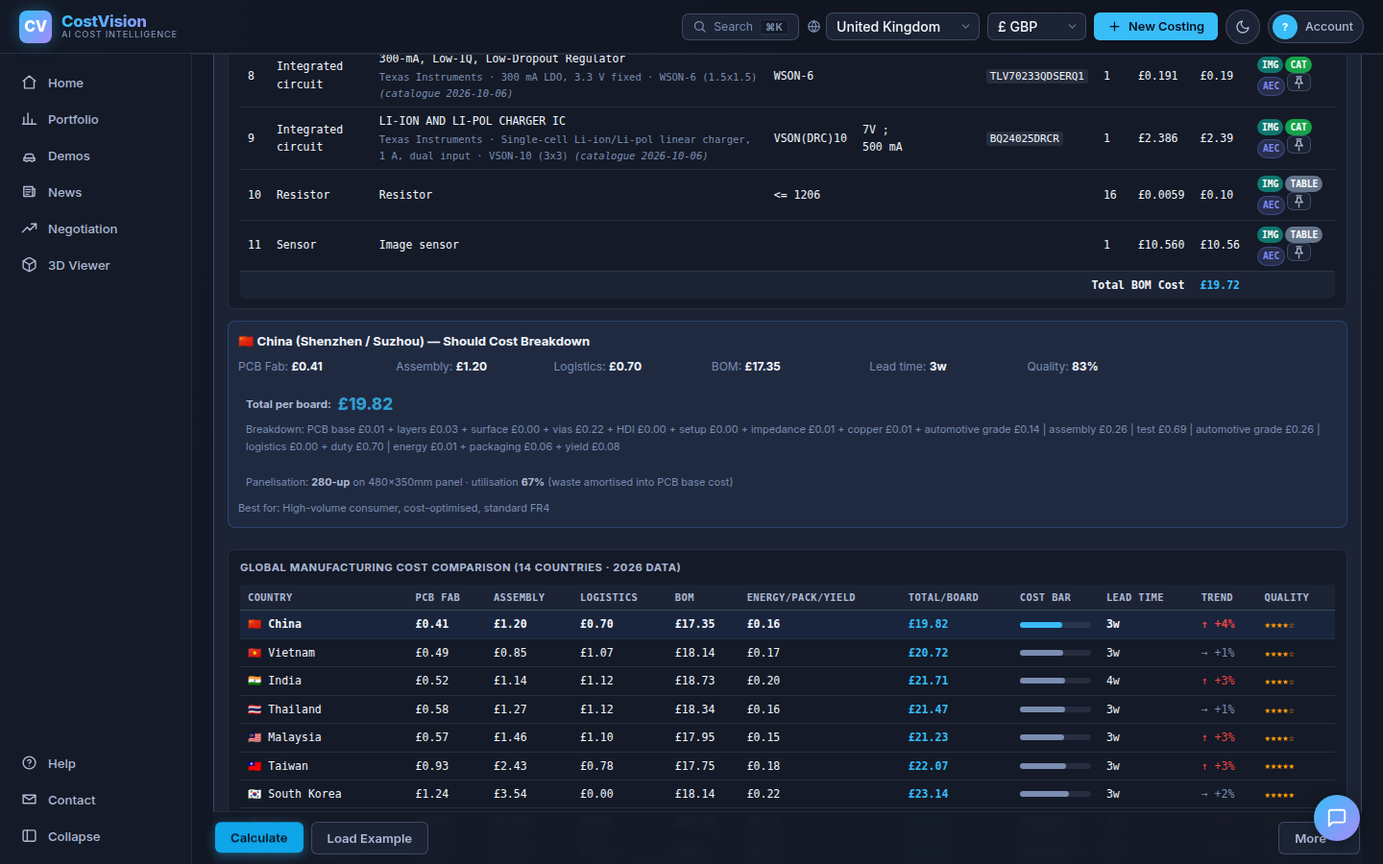
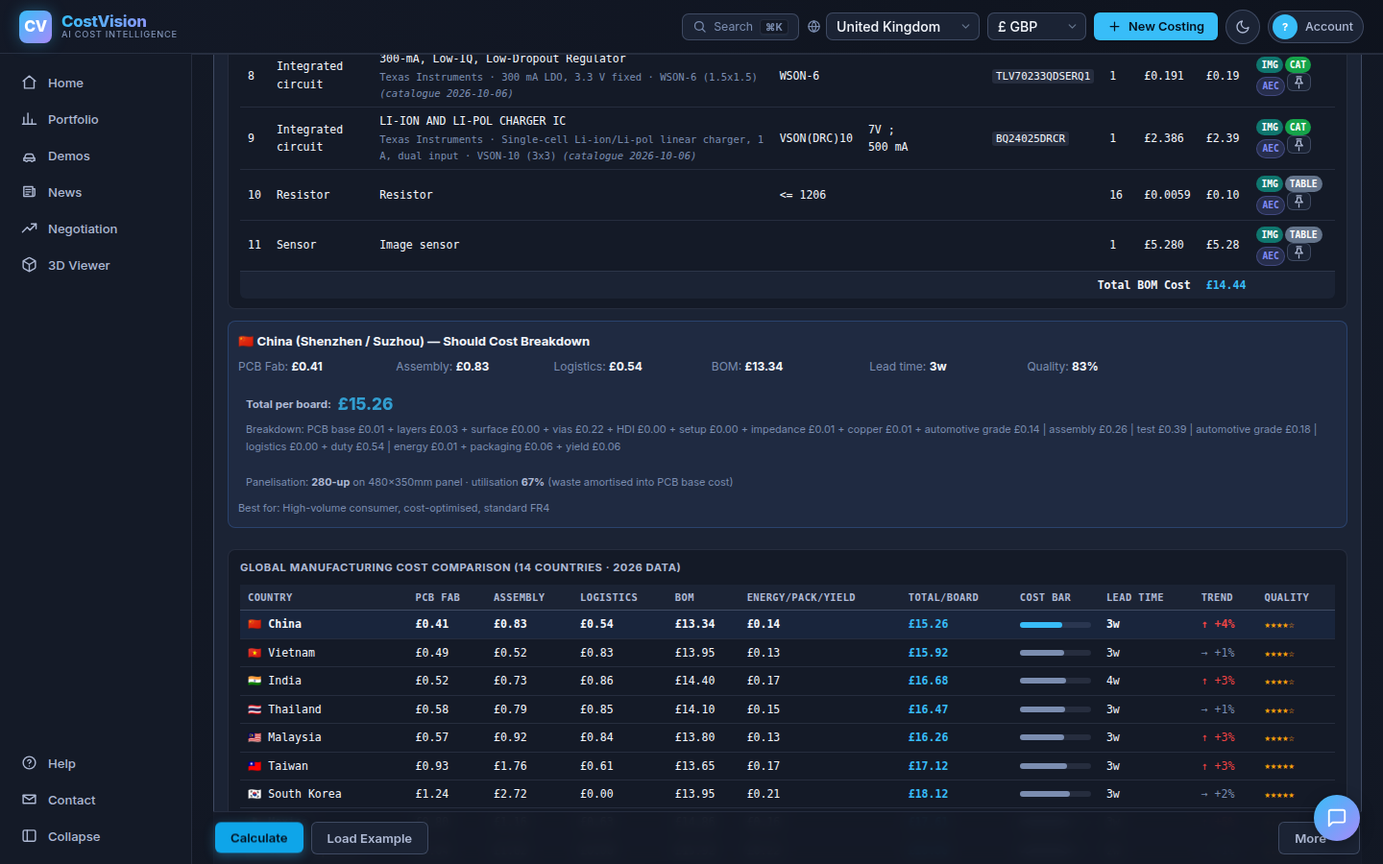
PCB costing: imager at volume, EMS material burden, AOI at volume - camera board re-cost against its 17.00 GBP price
Supplier price 17.00 GBP delivered UK, 250k/yr; image sensor unknown (A2MAC1
watermark, no marking) - sized from the photo at ~9.5x7.5 mm package /
5.9x4.4 mm window, 2-3 MP class. Evidence (docs/pcb/research/camera-board-
evidence-2026-10.md): automotive CIS at volume US$3-8 for 1-2 MP, >$10 for
8 MP; TI list prices; Shenzhen placement quotes; EMS quotes carry a material
margin that falls with programme size.

- Imager class range 3-15 GBP automotive (was 6-30, set from distributor
  single-unit listings): sensor 10.56 -> 5.28.
- EMS material burden on components by volume (5% >=100k, 7% >=10k, 10%
  below), inside bomCostPerBoard, shown as breakdown.materialBurden.
- AOI at volume like ICT / X-ray (station time + programme, table ceiling).
- Fab rates, SMT per placement and UK duty unchanged (evidence too weak).

Camera board: tool 15.26 (-10% vs 17.00), manual should-cost 14.9 (EMS
level), 16.1-16.7 with a Tier-1 margin. Radar 52.90 at 250k. Scorecard
25/25; camera and radar browser runs pass.

Claude-Session: https://claude.ai/code/session_0142L4rKS2AV8rxQTDWMs7dy

diff --git a/calculator/server/data/pcb-country-rates.ts b/calculator/server/data/pcb-country-rates.ts
@@ -1053,6 +1053,9 @@ export interface PCBCountryCostBreakdown {
     smtAssembly: number;
     thAssembly: number;
     aoi: number;
+    /** EMS material burden on the components (inside bomCostPerBoard), and its rate */
+    materialBurden?: number;
+    materialBurdenPct?: number;
     logistics: number;
     importDuty: number;
     /** Fab + assembly electricity at the country's actual tariff (audit fix) */
@@ -1127,6 +1130,16 @@ export const ICT_FIXTURE_GBP = 5000;
 export const XRAY_SECONDS_PER_BOARD = 20;
 /** X-ray programme per board design, GBP — an engineering figure, spread over the order. */
 export const XRAY_SETUP_GBP = 300;
+/** In-line AOI time per board (both sides), seconds, and the AOI programme per design — engineering figures. */
+export const AOI_SECONDS_PER_BOARD = 20;
+export const AOI_PROGRAM_GBP = 200;
+/**
+ * EMS material burden (procurement, inventory carrying, attrition and margin on the components it buys),
+ * as a fraction of the component cost, by annual volume — an engineering figure, lower on larger programmes.
+ */
+export function materialBurdenFor(qty: number): number {
+  return qty >= 100_000 ? 0.05 : qty >= 10_000 ? 0.07 : 0.10;
+}
 
 export function computePCBCountryCost(input: PCBCostInput, countryId: string): PCBCountryCostBreakdown {
   const rate = PCB_COUNTRY_RATES[countryId];
@@ -1175,7 +1188,9 @@ export function computePCBCountryCost(input: PCBCostInput, countryId: string): P
     (input.smtPlacements > 0 ? a.batchSetupGBP / Math.max(input.orderQuantity, 1) : 0);
   const thAssembly = input.throughHoleJoints * a.thRatePerJoint;
   const manualAssembly = input.manualJoints * a.manualSolderPerJoint;
-  const aoiCost = input.aoiRequired ? a.aoiPerBoard : 0;
+  // AOI on the same basis as ICT / X-ray (Oct 2026): in-line inspection time at volume, the table's
+  // small-batch price as the ceiling (a 250k camera board paid the flat £0.37).
+  const aoiCost = input.aoiRequired ? Math.min(a.aoiPerBoard, (AOI_SECONDS_PER_BOARD / 3600) * 2 * a.labourRatePerHr + AOI_PROGRAM_GBP / Math.max(input.orderQuantity, 1)) : 0;
   // X-ray of BGA / CSP joints, same basis as ICT: station time (XRAY_SECONDS_PER_BOARD at 2 × the labour
   // rate) at volume, the table's small-batch cabinet price as the ceiling (Oct 2026: a 250k camera board
   // with one CSP imager was charged £1.27 a board).
@@ -1192,7 +1207,14 @@ export function computePCBCountryCost(input: PCBCostInput, countryId: string): P
 
   // Component sourcing (audit fix): BOM varies by country via the sourcing
   // index — local availability/spot-market access, NOT an FX conversion.
-  const bomSourced = input.totalBOMCostGBP * (rate.components?.priceMultiplier ?? 1);
+  // The EMS buys the components and charges for doing so: procurement, inventory carrying, scrap and a
+  // margin on material (cost-plus EMS practice — Venture Outsource, EMSNow; the rate falls on larger
+  // programmes). It was missing: components passed through at cost, so every board sat below a real
+  // quote. MATERIAL_BURDEN is an engineering figure by volume, stated in the breakdown.
+  const materialBurdenPct = materialBurdenFor(input.orderQuantity);
+  const bomAtCost = input.totalBOMCostGBP * (rate.components?.priceMultiplier ?? 1);
+  const materialBurden = bomAtCost * materialBurdenPct;
+  const bomSourced = bomAtCost + materialBurden;
 
   // Logistics. Sea freight applies at volume (>= 2500 boards/order) where a
   // sea rate exists (audit fix: seaFreightPerKgGBP was defined but never used,
@@ -1261,6 +1283,8 @@ export function computePCBCountryCost(input: PCBCostInput, countryId: string): P
       aoi: Math.round((aoiCost + xrayCost + ictCost + confCost) * 100) / 100,
       logistics: Math.round(freight * 100) / 100,
       importDuty: Math.round(importDuty * 100) / 100,
+      materialBurden: Math.round(materialBurden * 100) / 100,
+      materialBurdenPct,
       energy: Math.round(energyCost * 100) / 100,
       packaging: Math.round(packagingCost * 100) / 100,
       yieldLoss: Math.round(yieldLossCost * 100) / 100,

diff --git a/calculator/tests/pcb-headline-trace.test.ts b/calculator/tests/pcb-headline-trace.test.ts
@@ -5,7 +5,7 @@
  */
 import { describe, it, expect } from 'vitest';
 import { readFileSync } from 'node:fs';
-import { computePCBCountryCost, PCB_COUNTRY_RATES, ICT_FIXTURE_GBP, XRAY_SECONDS_PER_BOARD, XRAY_SETUP_GBP, type PCBCostInput } from '../server/data/pcb-country-rates.js';
+import { computePCBCountryCost, PCB_COUNTRY_RATES, ICT_FIXTURE_GBP, XRAY_SECONDS_PER_BOARD, XRAY_SETUP_GBP, AOI_SECONDS_PER_BOARD, AOI_PROGRAM_GBP, materialBurdenFor, type PCBCostInput } from '../server/data/pcb-country-rates.js';
 const ICT_SEC = 90;   // the radar input's ictTimeSec
 import { applyAutomotiveGrade, derivePlacementsFromBOM, setDeterministicCostEstimates, gradeVolumeCurve, EXTRACT_MODEL, DEEP_EXTRACT_MODEL, OCR_MODEL } from '../server/routes/pcb.js';
 
@@ -41,11 +41,12 @@ describe('China breakdown by hand (rates as of 2026-09-29)', () => {
     // ICT at volume: test time × (2 × labour £/h) + the fixture over the order, capped at the table price.
     const ict = Math.min(r.assembly.ictPerBoard, ICT_SEC / 3600 * 2 * r.assembly.labourRatePerHr + ICT_FIXTURE_GBP / 250000);
     const xray = Math.min(r.assembly.xrayPerBoard, XRAY_SECONDS_PER_BOARD / 3600 * 2 * r.assembly.labourRatePerHr + XRAY_SETUP_GBP / 250000);
-    const test = r.assembly.aoiPerBoard + xray + ict;
+    const aoi = Math.min(r.assembly.aoiPerBoard, AOI_SECONDS_PER_BOARD / 3600 * 2 * r.assembly.labourRatePerHr + AOI_PROGRAM_GBP / 250000);
+    const test = aoi + xray + ict;
     expect(bd.assemblyPerBoard).toBeCloseTo(smt + th + test, 2);
   });
   it('components sourced in China at the country multiplier; duty on the customs value', () => {
-    expect(bd.bomCostPerBoard).toBeCloseTo(66.84 * r.components.priceMultiplier, 2);
+    expect(bd.bomCostPerBoard).toBeCloseTo(66.84 * r.components.priceMultiplier * (1 + materialBurdenFor(250000)), 2);   // + EMS material burden
     expect(bd.breakdown.importDuty).toBeCloseTo((bd.pcbFabPerBoard + bd.assemblyPerBoard + bd.bomCostPerBoard) * r.logistics.importDutyFraction, 2);
   });
   it('the total is the sum of its parts', () => {

diff --git a/calculator/tests/pcb-stage4-trace.test.ts b/calculator/tests/pcb-stage4-trace.test.ts
@@ -6,7 +6,7 @@
 import { describe, it, expect, beforeAll } from 'vitest';
 import { readFileSync } from 'node:fs';
 import { runStage4, applyAutomotiveGrade, bomAtQty } from '../server/routes/pcb.js';
-import { computePCBCountryCost, PCB_COUNTRY_RATES } from '../server/data/pcb-country-rates.js';
+import { computePCBCountryCost, PCB_COUNTRY_RATES, materialBurdenFor } from '../server/data/pcb-country-rates.js';
 
 const R = JSON.parse(readFileSync('e2e/fixtures/pcb-radar-replies.json', 'utf8'));
 const QTY = 250_000;
@@ -30,12 +30,12 @@ describe('radar board, China, 250k, ASIL-C — every figure from the headline', 
     for (const l of bom()) expect(allowed.has(String(l.priceSource)), `${l.refDes} ${l.priceSource}`).toBe(true);
   });
 
-  it('BOM total = Σ line totals; country BOM = BOM × the sourcing factor', () => {
+  it('BOM total = Σ line totals; country BOM = BOM × the sourcing factor × (1 + the EMS material burden)', () => {
     const sum = bom().reduce((t, l) => t + Number(l.lineTotalGBP), 0);
     const ce = a.costEstimates as Record<string, number>;
     expect(ce.totalBOMCostGBP).toBeCloseTo(sum, 2);
     expect(ce.confirmedBOMCostGBP + ce.unverifiedBOMCostGBP).toBeCloseTo(ce.totalBOMCostGBP, 2);
-    expect(s4.selectedCountryBreakdown!.bomCostPerBoard).toBeCloseTo(ce.totalBOMCostGBP * PCB_COUNTRY_RATES.cn.components.priceMultiplier, 2);
+    expect(s4.selectedCountryBreakdown!.bomCostPerBoard).toBeCloseTo(ce.totalBOMCostGBP * PCB_COUNTRY_RATES.cn.components.priceMultiplier * (1 + materialBurdenFor(250000)), 2);
   });
 
   it('the headline is the sum of its parts', () => {

diff --git a/calculator/server/utils/pcb-class-pricing.ts b/calculator/server/utils/pcb-class-pricing.ts
@@ -107,10 +107,11 @@ const TABLE: Record<string, Array<{ kind: string; test?: RegExp; row: Row }>> = 
   ],
   ic_bga: [
     { kind: 'adas', test: /adas|vision processor|radar processor/i, row: R(60, 400, 'ADAS processor') },
-    // Automotive CMOS imagers, catalogue and listings (6 Oct 2026): AR0233 £23.8, AR0820 £26.3 @1k;
-    // OX01F10 $12–18 (Digi-Key, no volume break). A camera's sensor is its largest line — it must
-    // never fall to a generic IC range.
-    { kind: 'imager', test: /image sensor|cmos sensor|camera sensor|imager\b/i, row: R(3, 20, 'CMOS image sensor', [6, 30]) },
+    // Automotive CMOS imagers AT VOLUME (camera-board trial, Oct 2026; docs/pcb/research/camera-board-evidence-2026-10.md):
+    // 1–2 MP automotive sensors US$3–8, 8 MP > US$10 (China industry press 2025); Yole: low-resolution automotive
+    // prices falling. Distributor single-unit listings (OX01F10 $12–18, AR0233 £24) are NOT volume prices.
+    // A camera's sensor is its largest line — it must never fall to a generic IC range.
+    { kind: 'imager', test: /image sensor|cmos sensor|camera sensor|imager\b/i, row: R(2.5, 12, 'CMOS image sensor', [3, 15]) },
     { kind: 'fpga_l', test: /fpga.*(large|ultrascale|kintex|virtex|stratix|arria)/i, row: R(30, 250, 'large FPGA') },
     { kind: 'fpga', test: /fpga|cpld/i, row: R(6, 40, 'small FPGA', [12, 60]) },
     { kind: 'ddr', test: /ddr|lpddr|sdram|dram|emmc|nand/i, row: R(1.5, 12, 'DDR / NAND memory BGA', [3, 20]) },

diff --git a/docs/pcb/research/camera-board-evidence-2026-10.md b/docs/pcb/research/camera-board-evidence-2026-10.md
@@ -1,0 +1,71 @@
+# Camera board cost evidence (October 2026)
+
+**The part:** an automotive 360° surround-view camera PCBA. It is 20 × 20 mm, 8-layer FR4, with 80 components on both sides. It is built in China at 250,000 a year and delivered to the UK. The supplier quotes £17.00 per board delivered.
+
+**How the evidence was gathered:** 28 WebSearch calls on 2026-10-06, with every source accessed that day. WebFetch was blocked, and so was a direct call to the gov.uk Trade Tariff API (the proxy returned 403). That means **every figure below is taken from the search engine's snippet or summary of the page, not from a full reading of it.** Treat each one as "the source appears to state". Check it on the page before it goes into a cost model. Where this file infers or calculates something, it says so.
+
+## A. Automotive CMOS image sensor prices at volume
+
+- **1–2 MP automotive CIS at volume: US$3–8 per sensor. 8 MP: above US$10.** These are Chinese sell-side and industry estimates, not company disclosures. Sources: Tencent News industry piece "产研：车载摄像头传感器——CIS芯片（一）" (2025-05-30), https://news.qq.com/rain/a/20250530A02BC200, and the cls.cn article "价量同步提升的车用CIS", https://www.cls.cn/detail/917687. The search summary gives the figure as "单颗100万-200万像素CIS芯片的量产价格在3-8美金左右，单颗800万像素CIS芯片的量产价格在10美金以上". It is the only resolution-split volume price found. I could not pin which of the two pages carries it, so check both.
+- **Yole: the ASP for all CIS (every market) "stabilized well over $3"**, held up by premium mobile and automotive parts. Source: Yole "Status of the CMOS Image Sensor Industry 2025", summarised by the Edge AI and Vision Alliance (2025-07), https://www.edge-ai-vision.com/2025/07/cmos-image-sensor-market-to-reach-more-than-30b-by-2030-driven-by-mobile-automotive-and-security-applications/ and https://www.yolegroup.com/product/report/status-of-the-cmos-image-sensor-industry-2025/. This covers all markets, not automotive alone.
+- **Yole on the automotive market:** camera-module revenue was about US$6B in 2024 and is forecast at US$8.7B by 2030 (6.6% CAGR). Image-sensor units are forecast above 400M by 2030 (8.1% CAGR). Yole also says the blended ASP is "eroding on commodity tiers while high-resolution ADAS silicon holds firmer". Source: https://www.yolegroup.com/press-release/automotive-imaging-market-surges-toward-8-7-billion-milestone/ and https://www.edge-ai-vision.com/2025/07/automotive-imaging-market-surges-toward-8-7b-milestone/. *Inference, not stated:* the report's 2024 automotive image-sensor revenue divided by its units would give an automotive ASP, but neither number appeared in the snippets.
+- **onsemi, 2023 investor material: "8MP ramping with ~2.5x ASP uplift"** compared with lower-resolution parts. This is a ratio, not a dollar figure. Source: onsemi investor presentation, https://investor.onsemi.com/static-files/129b7851-50a9-467f-bf29-1864b8c5c789 (2023). The Q2-2026 call gives Intelligent Sensing Group revenue of US$229M but no ASP: https://www.fool.com/earnings/call-transcripts/2026/08/11/on-semiconductor-on-q2-2026-earnings-call-transcript/
+- **TechInsights:** onsemi held more than 40% of the automotive image-sensor market in 2023. The snippet gave no ASP. Source: https://www.techinsights.com/blog/automotive-image-sensor-market-share-2023-onsemi-leads-over-40-share
+- **"8MP automotive ADAS cameras have an average selling price of USD 101 per unit."** This is for the whole **camera**, not the sensor. It comes from a press-release aggregator of unclear provenance, so it is low confidence. Source: openPR, https://www.openpr.com/news/4505992/the-usd-4-84-billion-automotive-imaging-revolution-why-8mp-adas
+- **Share of the module cost:** "the image sensor is typically ... 50% to 70% of the total cost" of a camera module. This is a camera-module vendor's blog, not a teardown. Source: Sincere Information Technology, https://www.cameramodule.com/info/what-is-the-cost-of-a-camera-module-a-deep-di-103434916.html
+- **Will Semi (OmniVision):** it overtook onsemi on automotive CIS shipments in 2023, mostly in mid- and low-end parts. It launched the 8 MP OX08D10 in September 2023. The search summary credits this to sell-side reports, for example the Soochow Securities (东吴证券) Will Semi deep-dive, https://file.iyanbao.com/pdf/da5a2-b1af9328-5b3c-47bd-bc6d-d7a7d0e66ca4.pdf. No ASP was disclosed in the snippet.
+- **Contract or volume quotes for OX01F10, OX03C10, AR0147AT, AR0233AT, IMX390 and ISX031:** none found. Octopart shows the OX03C10-EXAL-BA0C at US$500, but that is a prototyping **module**, not the sensor, so it is irrelevant: https://octopart.com/part/omnivision-technologies/OX03C10-EXAL-BA0C
+
+## B. Identifying the sensor from its package (about 9.5 × 7.5 mm, window about 5.9 × 4.4 mm)
+
+| Sensor | Package (as the source states) | Source | Match to 9.5 × 7.5? |
+|---|---|---|---|
+| OmniVision OX03C10 | a-CSP, **6.862 × 4.936 mm** | OX03C10 preliminary spec, a-CSP v1.1 (hosted on TI E2E China), https://e2echina.ti.com/cfs-file/__key/communityserver-discussions-components-files/135/OX03C10_2D00_Preliminary_2D00_Specification_2D00_a_2D00_CSP_5F00_Version_2D00_1_2D00_1_5F00_WT.pdf | No. Too small. |
+| OmniVision OX03F10 | 74-pin a-CSP, **6.9016 × 5.7496 mm** | OX03F10 preliminary spec, a-CSP v1.12 (TI E2E), https://e2e.ti.com/cfs-file/__key/communityserver-discussions-components-files/791/OX03F10_2D00_Preliminary_2D00_Specification_2D00_a_2D00_CSP_5F00_Version_2D00_1_2D00_12_5F00_Waching_2800_1_2900_.pdf | No |
+| OmniVision OX01E20 | 74-pin a-CSP. Size not in the snippet. | https://www.ovt.com/products/ox01e20/, product brief https://www.omnivision-group.com/files/pd/file/OX01E20-PB-v1.0-WEB.pdf | Unknown |
+| OmniVision OX01F10 | a-CSP, 1/3.55", 3.0 µm. Size not found. | https://www.ovt.com/products/ox01f10/ | Unknown. Probably a-CSP-sized (about 5–7 mm), which is *inference*. |
+| onsemi AR0147AT | iBGA: **9 × 9 mm 80-ball** and **8 × 7 mm 89-ball**, 1.5 mm high | AR0147AT datasheet (Mouser copy), https://www.mouser.com/datasheet/2/308/onsm_s_a0009667897_1-2280016.pdf | Close-ish, not a match |
+| onsemi AR0233AT | iBGA80, case 503BT. Datasheet outline says "TBD". | https://static6.arrow.com/aropdfconversion/a99e3d7a59a92b4c0836fbe673234ca42da60a34/ar0233at-d.pdf | Unknown |
+| onsemi AR0220AT | iBGA87, **12 × 9 mm** | AR0220 datasheet Rev 2, https://www.mouser.com/datasheet/2/308/AR0220-D-1381938.pdf | No |
+| Sony IMX490 | 124-pin plastic BGA, **15.35 × 11.68 mm** | Sony IMX490 flyer, https://www.sony-semicon.com/files/62/pdf/p-15_IMX490.pdf | No |
+| Sony IMX390 | The search summary gave "124-pin plastic BGA, 15.35 × 11.68 mm", but only the IMX490 flyer was in the results. **Unverified, possibly carried over from the IMX490.** | (no IMX390 primary found) | Probably no |
+| Sony ISX031 | Package size not found. Active area **5.81 × 4.66 mm** (7.45 mm diagonal), 3.0 µm, 1937 × 1553. | Commonlands, https://commonlands.com/pages/image-sensors/isx031?page=4 | Unknown |
+
+- **No sensor checked has a package that matches 9.5 × 7.5 mm.**
+- *Inference only:* active areas worked out from pixel count × pitch are AR0147AT about 4.0 × 2.9 mm, IMX390 about 5.8 × 3.2 mm, OX03C10 about 5.8 × 3.8 mm and AR0233AT about 6.1 × 3.8 mm. ISX031's stated active area is 5.81 × 4.66 mm. A 5.9 × 4.4 mm window is closest in aspect and size to the **ISX031**, with the OX03C10 next. A window measured on a photo sits a little larger than the pixel array, so this is a hint, not an identification. The 9.5 × 7.5 package size of the ISX031 is unconfirmed.
+
+## C. UK import duty (China to UK)
+
+- **Candidate code:** heading 8529, "Parts suitable for use solely or principally with the apparatus of headings 8524 to 8528", subheading 8529 90 (other) → **8529 90 92 00**. This 10-digit code exists. A Tariff Stop Press notice says several older codes were absorbed into it on 2023-06-30. Sources: https://www.trade-tariff.service.gov.uk/headings/8529 and https://trade-tariff.service.gov.uk/news/stories/changestocommoditycodesinchapters2385and90tariffstoppressnotice22
+- **Duty rate: NOT established.** The search summary of the 8529 heading page said "third country duty is 20%". That is almost certainly **VAT (20%)** misread as duty, so it must not be used. A direct call to the Trade Tariff API (`/api/commodities/8529909200`) was blocked by this environment's proxy. **Action:** read the rate at https://www.trade-tariff.service.gov.uk/commodities/8529909200?country=CN before costing.
+- Other candidates were not resolved: 8525 89 00 00 (a complete camera, page https://www.trade-tariff.service.gov.uk/commodities/8525890000), 8708 99 (motor-vehicle parts) and 8543 90. The HMRC classification guide is https://www.gov.uk/guidance/classifying-electrical-equipment-for-import-and-export. *Inference:* a populated board that is not yet a camera generally goes to 8529 90 as a part of 8525 apparatus, not to 8708. Section XVI Note 2 sends parts of chapter-85 apparatus to their own heading before chapter 87. Confirm this with a classification ruling.
+- **Anti-dumping:** not checked within the budget. No anti-dumping or countervailing measure was found or ruled out.
+
+## D. Texas Instruments prices
+
+The search summaries do not always say which quantity break a ti.com price belongs to. Where they don't, the table says so.
+
+| Part | Price | Source | Note |
+|---|---|---|---|
+| DS90UB935-Q1 | **US$3.707** (DS90UB935TRHBRQ1, large reel). **US$4.448** (DS90UB935TRHBTQ1, small reel). | ti.com product page, https://www.ti.com/product/DS90UB935-Q1 | Manufacturer price. Quantity break not stated in the snippet; ti.com normally shows 1ku. Arrow: US$4.219 at 1,000 (TRHBTQ1), which is a **distributor** price. |
+| LM53600-Q1 | **US$2.78** at 1k / reel of 3,000 (LM53600AQDSXRQ1) | Mouser, https://www.mouser.com/ProductDetail/Texas-Instruments/LM53600AQDSXRQ1?qs=8%2FmU9qzJpL80JMwTt3AZOw%3D%3D | **Distributor, not TI list.** ABR Micro shows US$1.977 (broker, low trust). The TI page https://www.ti.com/product/LM53600-Q1/part-details/LM53600LQDSXRQ1 was found, but no price was shown. |
+| TPS62422-Q1 | **US$1.061** (TPS62422QDRCRQ1) | ti.com, https://www.ti.com/product/TPS62422-Q1 | Manufacturer price. Quantity break not stated in the snippet. |
+| TLV702-Q1 | **US$0.266** (TLV70225QDSERQ1) | ti.com, https://www.ti.com/product/TLV702-Q1/part-details/TLV70225QDSERQ1 | Manufacturer price. Quantity break not stated. For comparison, the commercial TLV70225DSER is listed at **US$0.333 at 1ku**. |
+| BQ24025 | not found | — | — |
+
+## E. China volume benchmarks
+
+- **SMT placement price per point:** about **0.008–0.02 CNY per point** in general. Small batches run about 0.02–0.05, medium batches about 0.01–0.018, and high volume **as low as 0.008 CNY per point or lower**. Parts 0402 and larger cost **0.008–0.015 CNY per point**. 0201, BGA and QFN rise to about **0.03 CNY per point**. Extras are charged on top: line set-up / first article, stencil (100–300 CNY a set), paste and test. Sources are Shenzhen EMS vendor pages, so they are vendor statements. They include 宏力捷 / Greattong "SMT贴片加工多少钱一个点？2025最新报价与成本分析", http://www.greattong.com/archives/view-2666-1.html; 领智电路, http://www.lzdlpcb.com/cjwt/612.html; 捷创电子, https://www.jc-pcba.com/Infodetial/8021.html; 快发智造, https://www.kfpcba.com.cn/womendeboke/483.html; and 1943科技 (2025 price list), https://www.sz1942.com/show-80-2298-1.html. The summary did not say which page states which band. Note that a "point" (点) is usually counted per pad or pin pair (a 2-terminal chip = 1 point, an IC = pins ÷ 2). That convention is **not confirmed** from these snippets.
+- **EMS conversion cost benchmark:** none found beyond the per-point pricing above.
+- **8-layer FR4 PCB:** about **1,800 CNY per m²** with processing. The source page is one of the Chinese PCB pricing explainers in the results and was not pinned down. The candidates are Zhihu https://zhuanlan.zhihu.com/p/494954763 and https://zhuanlan.zhihu.com/p/21350868, and the eet-china cost formula page https://www.eet-china.com/tools/3.html. The date is unknown and probably older, so check it. The same results say volume (≥100 m²) earns 30–50% off small-batch prices, and immersion gold adds about 100 CNY per m².
+- **Reference point for lower layer counts:** JLC (嘉立创) price cut: 2-layer **298 CNY per m²**, 4-layer **480 CNY per m²**. These are prototype / small-batch platform prices. Source: https://www.jlc.com/portal/q7i36149.html (date not captured).
+
+## What could not be found
+
+- A volume price for a named sensor (OX01F10, OX03C10, AR0147AT, AR0233AT, IMX390, ISX031). No EMS or OEM contract quote is public.
+- Dollar ASPs for automotive CIS by resolution from Yole, TechInsights, Counterpoint, Omdia or S&P. Their snippets give market size and trends only. The only resolution split found (US$3–8 for 1–2 MP, more than US$10 for 8 MP) comes from Chinese industry and broker articles.
+- Teardown BOM estimates (A2Mac1, System Plus, TechInsights) for a surround-view camera module.
+- Package sizes for OX01F10, OX01E20, AR0233AT (datasheet says "TBD"), ISX031 and a verified IMX390. No candidate checked is 9.5 × 7.5 mm.
+- The UK Global Tariff duty rate for 8529 90 92 00, or any alternative code, and the anti-dumping status. The gov.uk API was blocked, and the only snippet figure (20%) looks like VAT.
+- TI list prices for BQ24025 and LM53600-Q1 (only a distributor price was found), and confirmation of the quantity break for the ti.com figures.
+- A dated, attributable 2025–26 price per m² for 8-layer volume PCB in China, and EMS conversion cost per board or per hour.

diff --git a/docs/pcb/camera-board-360-2026-10.md b/docs/pcb/camera-board-360-2026-10.md
@@ -121,3 +121,61 @@ The engineer reports buying this board at **£17.00**. It is recorded in `calcul
 - read the sensor's marking (or get its part number from the supplier);
 - confirm the Incoterm and the annual volume;
 - log further boards' actuals. With five or more PCBA actuals the calibration layer (`src/engine/calibration.ts`) can measure and correct the bias.
+
+## 7. Re-cost with evidence (delivered UK, 250k a year, sensor from its photo)
+
+The engineer confirmed:
+- the £17.00 is **delivered to the UK**;
+- the volume is **250,000 a year**;
+- the image sensor's part number is **not available**.
+
+The faint diagonal marks on the sensor, the QFN and the board read "A2MAC1": the watermark of the teardown service, not chip markings. The evidence is in `research/camera-board-evidence-2026-10.md`. It comes from search summaries, because this environment blocks the pages themselves and the UK tariff service.
+
+**The sensor, from its photo.**
+- **Size:** at 17 px/mm (the 20 mm board is 341 px wide), the package is about **9.5 × 7.5 mm** and the optical window about **5.9 × 4.4 mm**.
+- **Resolution class:** that window is about 1/2.7"–1/3" class, i.e. **2–3 MP**. Nearest stated active areas: Sony ISX031 5.81 × 4.66 mm (3 MP), then OmniVision OX03C10 (2.5 MP). The DS90UB935 serializer carries up to that class.
+- **Price:** automotive CIS at volume is **US$3–8 for 1–2 MP**, over $10 for 8 MP (China industry press, 2025). Yole reports low-resolution automotive prices falling. A 2–3 MP part sits in the upper half: **$7 central** (£5.29), range $5–9.
+
+### Manual should-cost (EMS level)
+
+| Element | Basis | £ |
+|---|---|---|
+| Image sensor (2–3 MP automotive, CSP) | $7 at volume (range $5–9) | 5.29 |
+| DS90UB935-Q1 | TI list $3.707 (large reel) × 0.85 contract | 2.38 |
+| LM53600-Q1 | Mouser $2.78 @1k → 250k (catalogue) | 1.50 |
+| TPS62422-Q1 | TI list $1.061 × 0.85 | 0.68 |
+| TLV702-Q1 | TI list $0.266 × 0.85 | 0.17 |
+| BQ24025 | Digi-Key $4.32 @3k → 250k (no TI list found; upper end) | 2.39 |
+| 49 MLCC, 7 beads, 10 µH inductor, PoC choke, 16 resistors | volume prices (§1) | 0.66 |
+| **Components** | | **13.07** |
+| EMS material burden | 5% at ≥ 100k (engineering figure; cost-plus EMS practice) | 0.65 |
+| Bare board | 8-layer 900–1,260 CNY/m² at volume (1,800 list less 30–50%) on 4 cm² at 70% panel use, plus 2 oz copper and automotive fab | 0.15 |
+| Assembly | 73 points × 0.012 CNY + 7 fine-pitch × 0.03 CNY (Shenzhen EMS quotes) = £0.12; AOI £0.05, X-ray £0.06, ICT £0.17, IATF premium £0.15 | 0.55 |
+| Yield / rework, packaging, freight, energy | | 0.24 |
+| UK import duty | 8529 90 92 is the likely code; its rate could not be confirmed here (0–3.7% → £0–0.54) | 0.27 |
+| **Manual should-cost, delivered UK** | | **≈ £14.9** (range £13.2–16.7) |
+
+Two readings of the actual:
+- **EMS bought directly:** £17.00 is **+14%** over the should-cost, room to negotiate.
+- **Tier-1 module supplier:** add its SG&A and profit (typically 8–12%). That gives **≈ £16.1–16.7**, and £17 is close.
+
+### What changed in the tool (evidence, not tuning)
+
+| Change | Evidence | Effect on this board |
+|---|---|---|
+| Imager class range £3–15 automotive (was £6–30) | 1–2 MP $3–8 at volume, 8 MP > $10; distributor single-unit listings are not volume prices | sensor £10.56 → **£5.28** |
+| EMS material burden on components: 5% (≥ 100k), 7% (10k–100k), 10% (< 10k), stated in the breakdown | EMS quotes carry a material margin that falls on larger programmes (Venture Outsource; EMSNow cost-plus) | **+£0.64** |
+| AOI at volume (station time + programme, table price as ceiling), as ICT and X-ray | same basis as the ICT / X-ray fix | AOI £0.37 → ~£0.08 |
+| Not changed: fab £/dm², SMT £/placement, UK duty rate | evidence too weak to move a table (a single older 8-layer figure; vendor-page placement quotes; the tariff rate unread). The tool's fab (£0.41) is likely high and its placement price about 2× the Shenzhen quotes — together about £0.4 on this board | — |
+
+**Result:**
+
+| | £ / board | vs £17.00 |
+|---|---|---|
+| Tool | **15.26** | −10.2% |
+| Manual should-cost (EMS level) | 14.9 | −12% |
+| Manual + Tier-1 margin | 16.1–16.7 | −2 to −5% |
+
+The radar demo board at 250k moves to **£52.90** with the material burden (was £50.97).
+
+**To confirm with a minute's look:** the UK duty on trade-tariff.service.gov.uk for 8529 90 92 from China, and whether the supplier is an EMS or a Tier-1.

diff --git a/CLAUDE.md b/CLAUDE.md
@@ -194,6 +194,10 @@ with no analysis. Board size is kept unless its placement density is unbuildable
 price; BOM rows named by kind ("Ferrite", "Common Mode Choke", "Image sensor") take bead / choke / imager ranges, "≤ 1206"
 is a size limit; TI "XXXX-Q1" finds the catalogued …Q1 orderable; ≥ 2 named AEC-Q100 ICs (≥ half of them) make the board
 automotive (`AUTOMOTIVE_FROM_BOM`); a BOM without designators is checked by count and is never "missing passives".
+AOI, ICT and X-ray are all station time + programme / fixture over the order (table price = small-batch ceiling); the
+components carry an EMS material burden (`materialBurdenFor`: 5% ≥ 100k, 7% ≥ 10k, 10% below — inside `bomCostPerBoard`,
+shown as `breakdown.materialBurden`); imagers are priced at automotive volume ASPs (£3–15), not distributor listings.
+Real purchase prices go in `scripts/actuals/pcb-actuals.csv` (`npx tsx scripts/accuracy-report.ts <csv>`) — never tune to one.
 `npm run test:e2e:pcb-camera` drives that board end to end; see `docs/pcb/camera-board-360-2026-10.md`.
 `expandRefDes` counts only real designators (U1, R12A, C_BULK1) — a placeholder ("—", "N/A", "U?") is
 not one (it once made 13 unlabelled lines read as duplicate views). File inputs are never written back

diff --git a/docs/pcb/pcb-review-2026-10.md b/docs/pcb/pcb-review-2026-10.md
@@ -345,3 +345,6 @@ Two of the AI's three identity errors are now caught by the cross-check with wha
 ## 11. Camera-board trial (6 Oct 2026)
 
 Calculate now reports the photo analysis (and re-prices it with edited fields). Board size, ICT / X-ray at volume, BOM lines named by kind, TI "-Q1" names and the automotive domain from the parts list were fixed. The radar headline is now **£50.97** at 250k a year (it was £55.82 with a flat £2.64 ICT and £1.27 X-ray per board). Full write-up and manual should-cost: `camera-board-360-2026-10.md`.
+
+
+Update (same day): with the image sensor priced at volume (automotive CIS $3–8 for 1–2 MP), an EMS material burden on components (5% at ≥ 100k) and AOI at volume, the camera board costs **£15.26** (supplier price £17.00 delivered UK; manual should-cost £14.9) and the radar **£52.90**.
